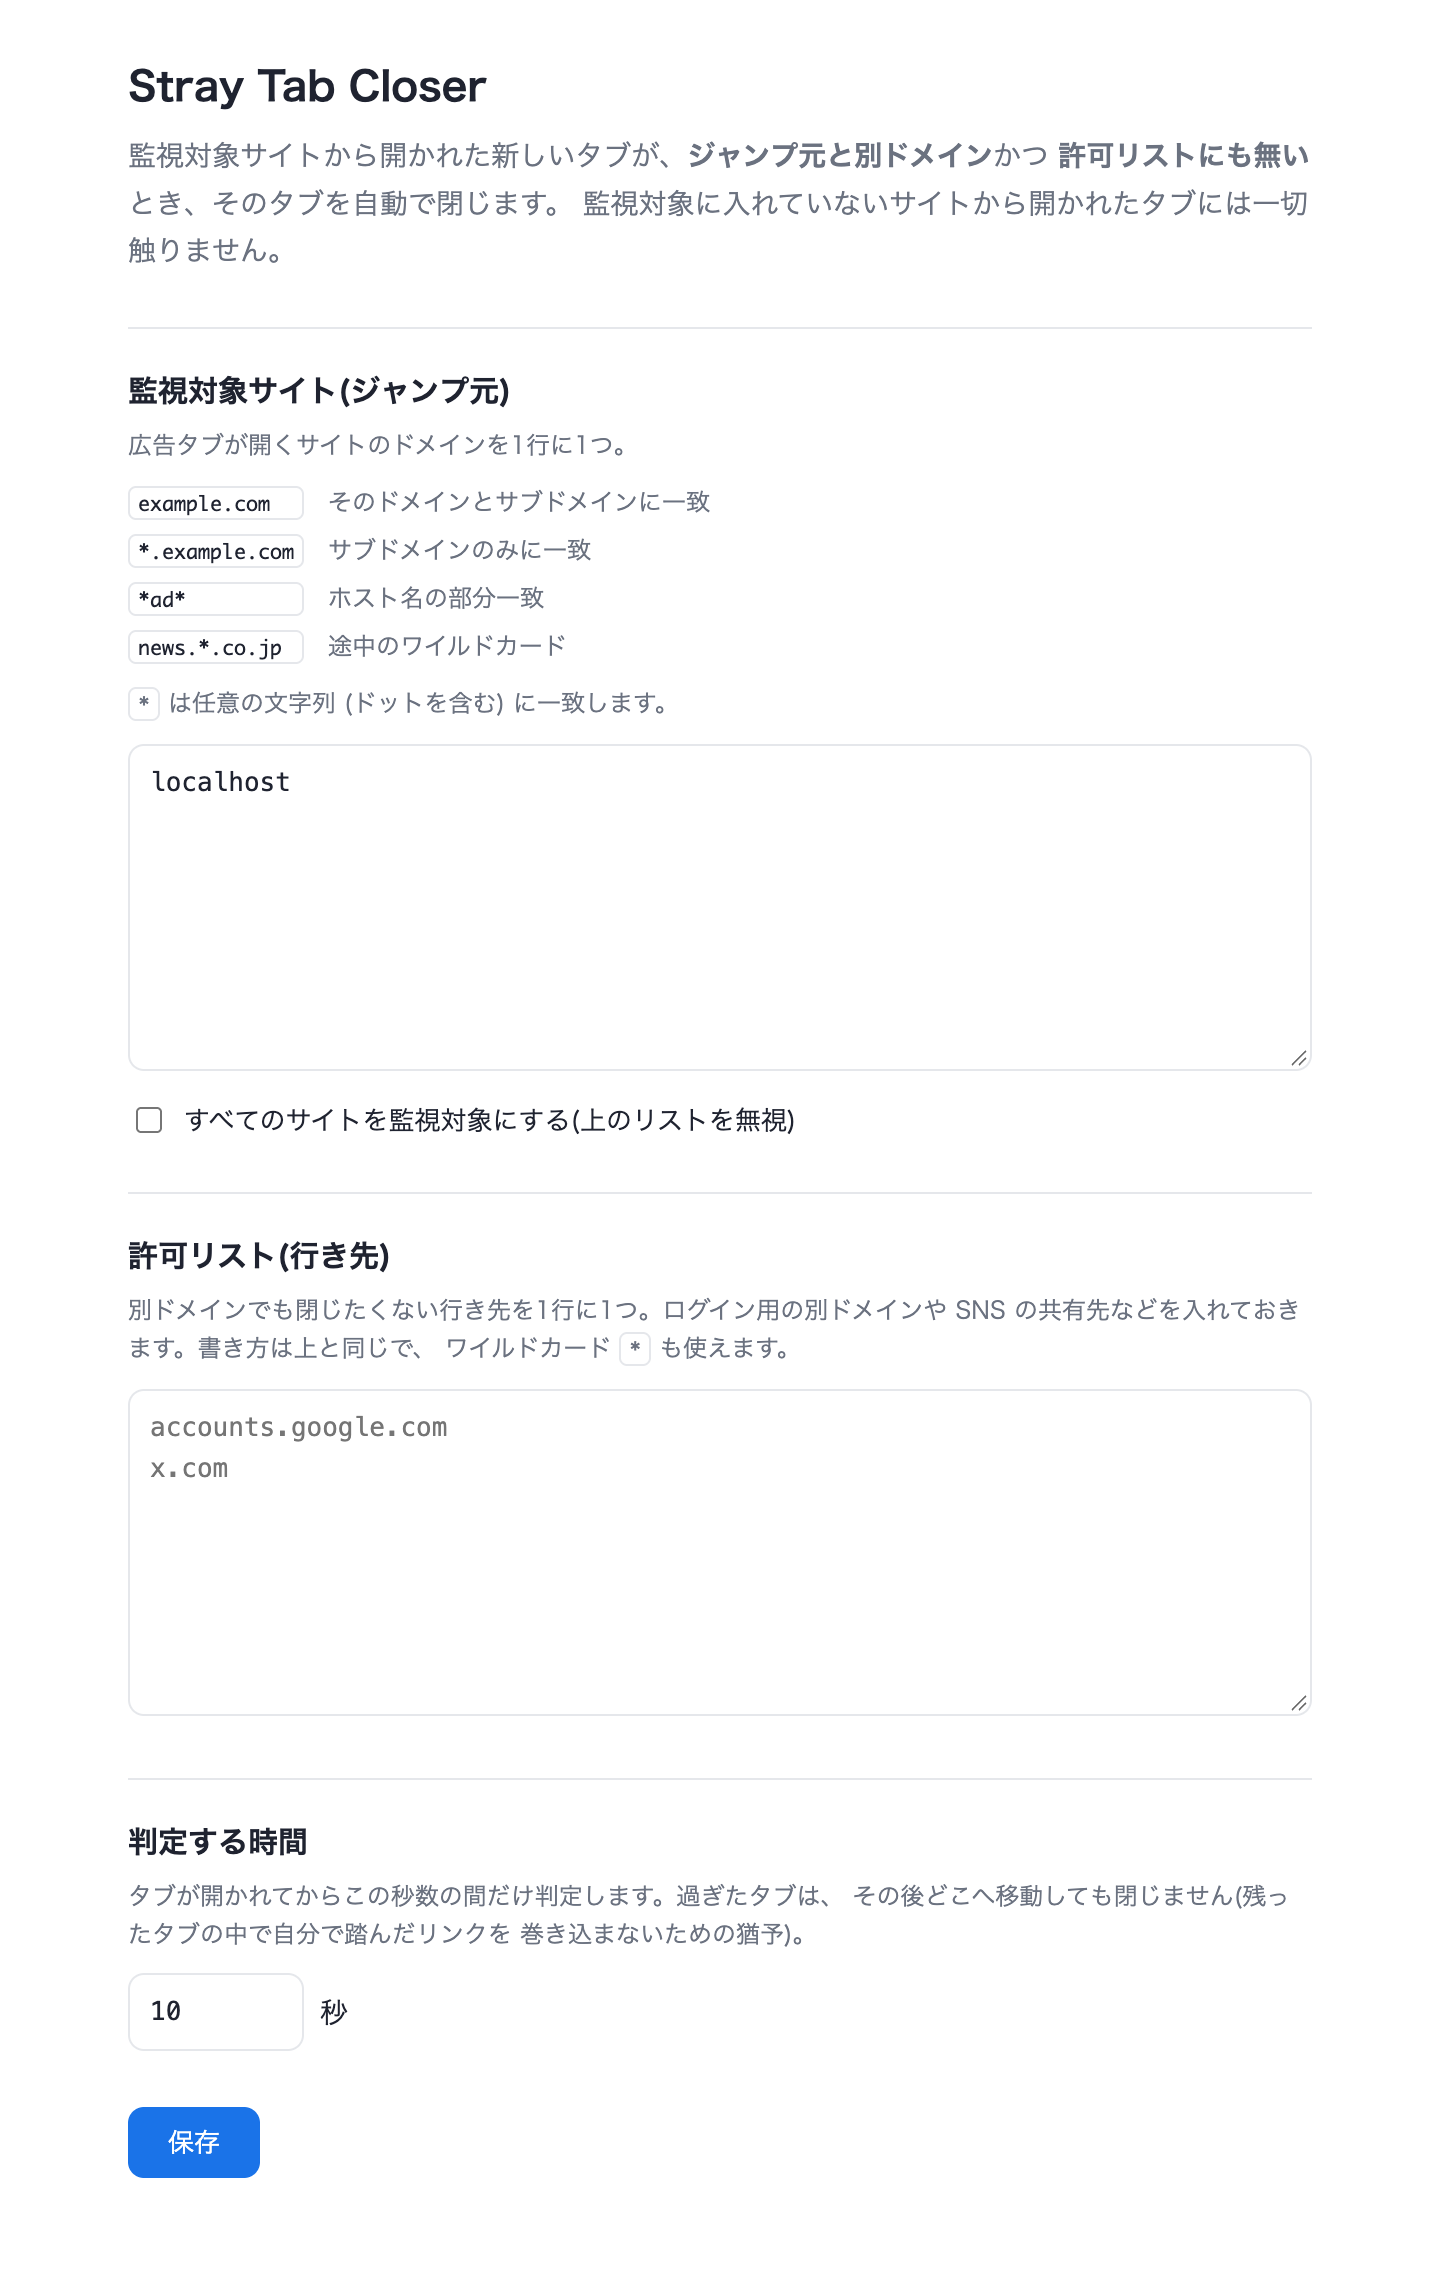
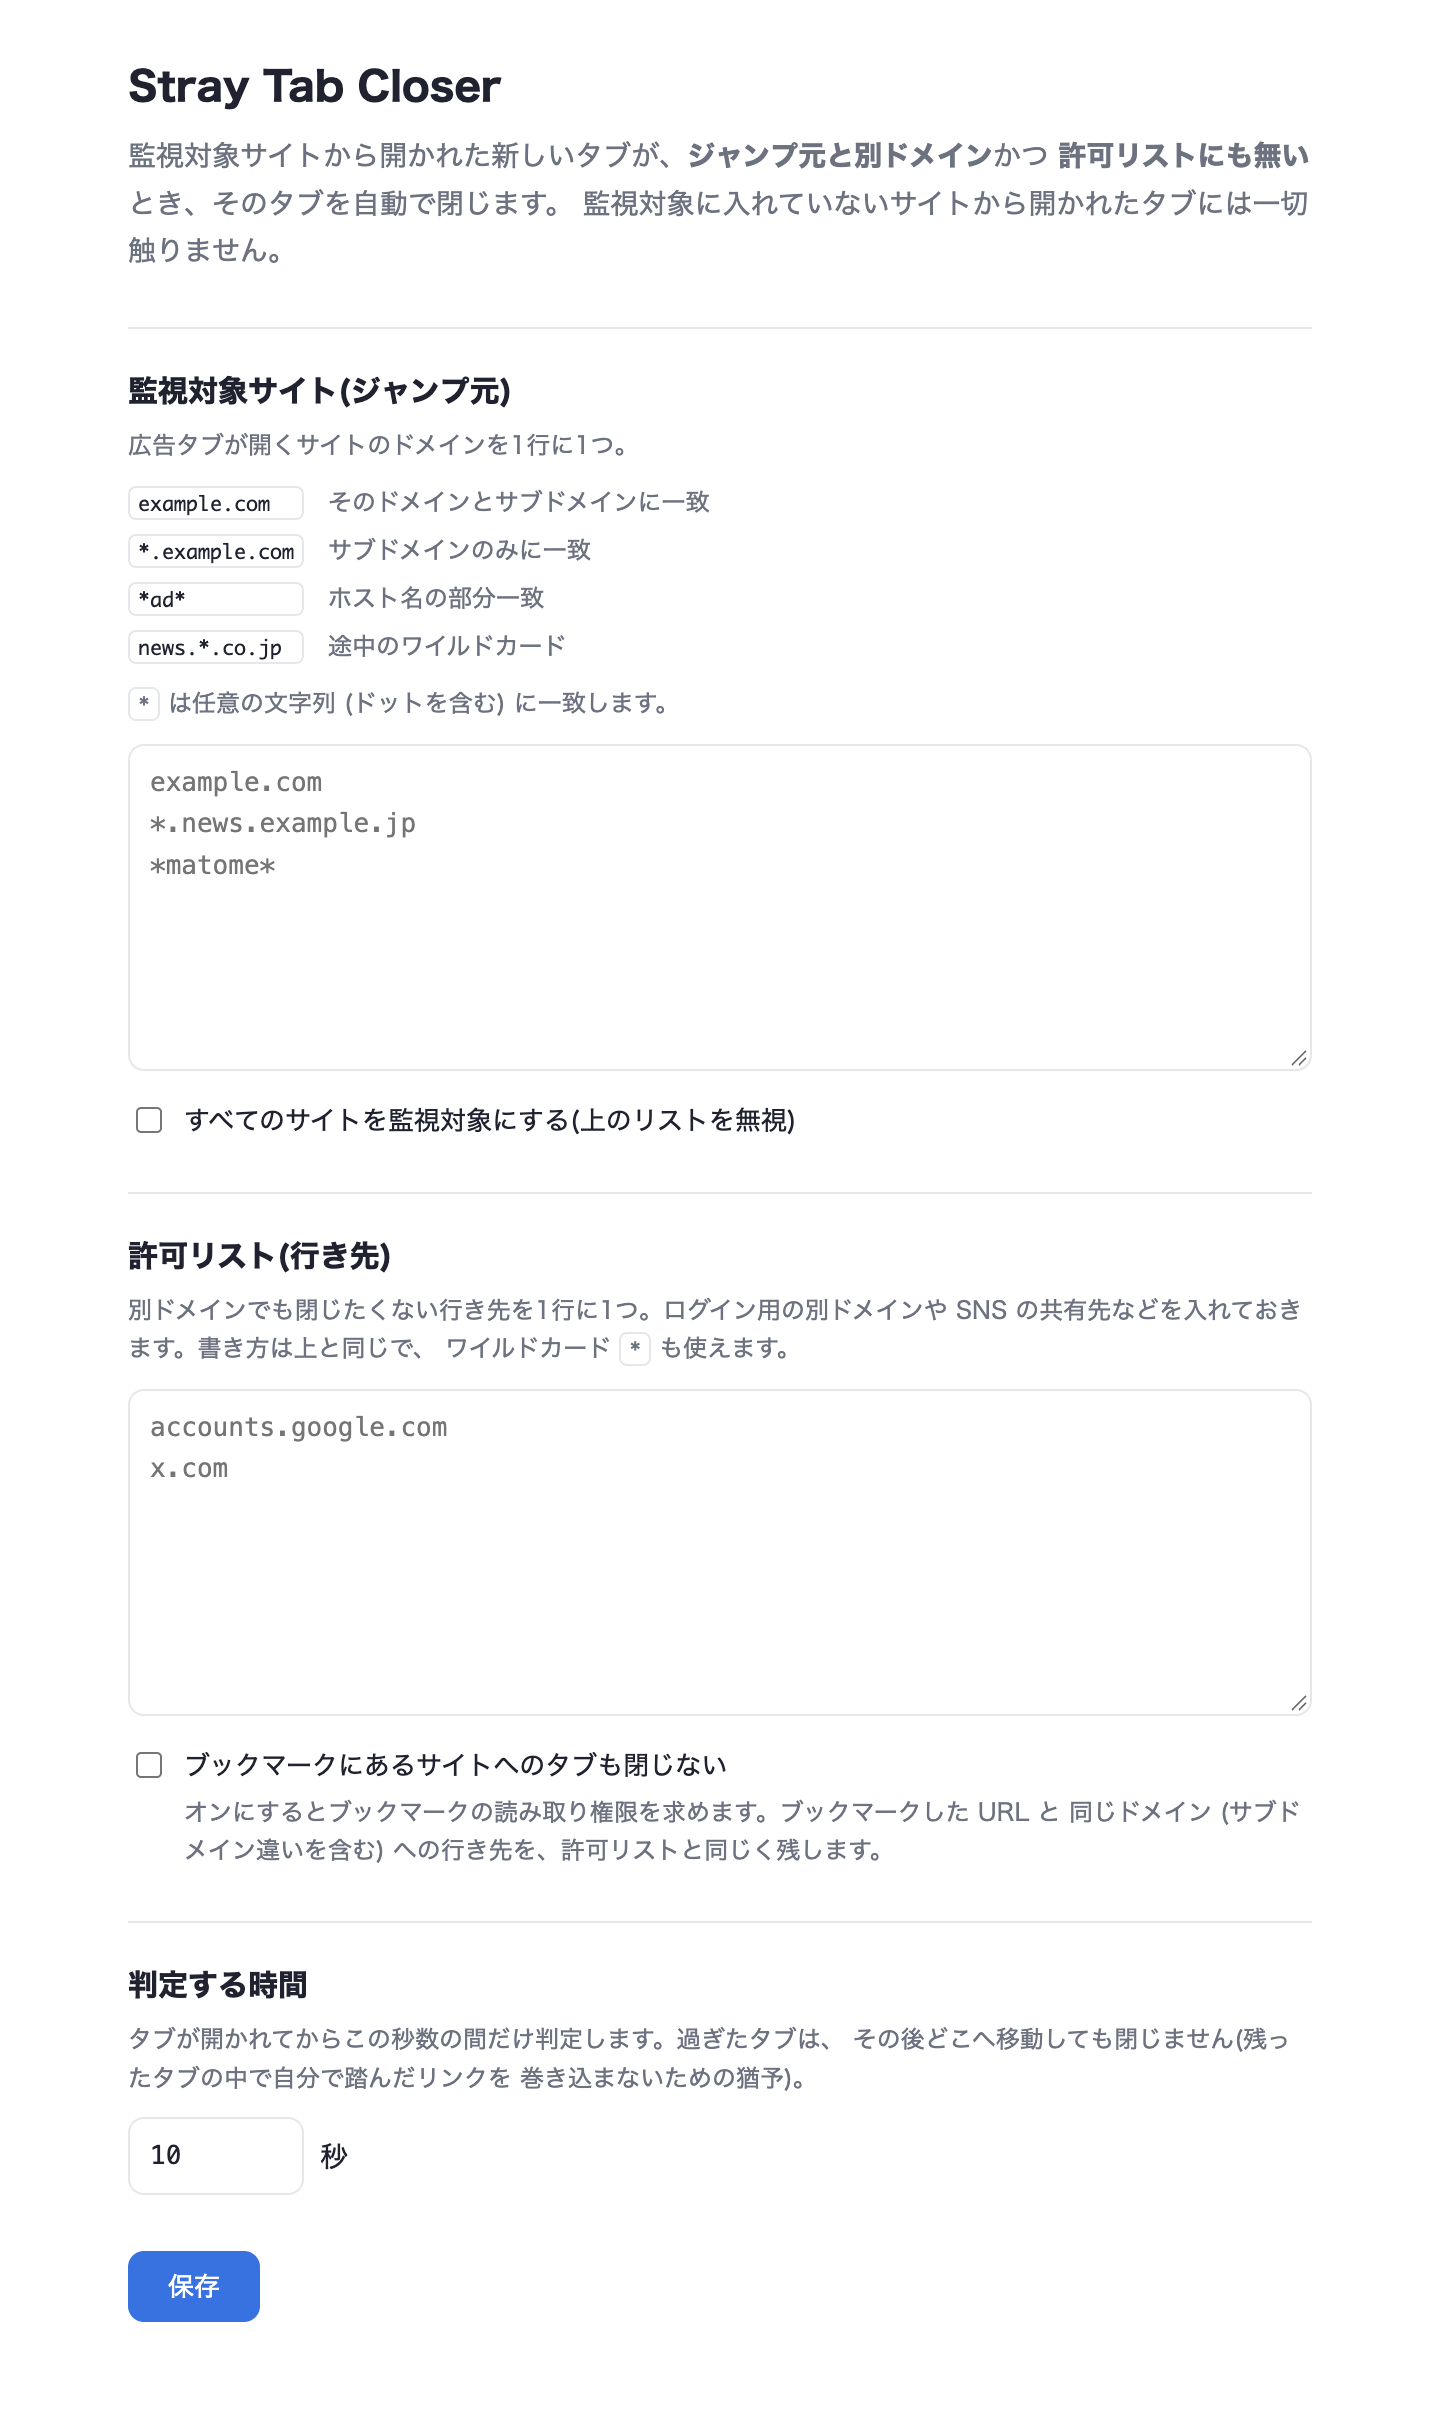
1.1.0: ブックマークにあるサイトへのタブを閉じない設定を追加
詳細設定でオンにしたときだけ bookmarks 権限 (任意権限) を求め、
ブックマークした URL と同じドメインへの行き先を残す。

diff --git a/background.js b/background.js
@@ -1,4 +1,11 @@
-import { getSettings, decide, isWatchedSource, hostOf, registrableDomain } from "./rules.js";
+import {
+  getSettings,
+  decide,
+  isWatchedSource,
+  hostOf,
+  registrableDomain,
+  bookmarkedDomains,
+} from "./rules.js";
 
 const LOG_LIMIT = 20;
 
@@ -68,6 +75,48 @@ async function recordClosed(entry) {
   chrome.action.setBadgeBackgroundColor({ color: "#D93025" });
 }
 
+// ── ブックマーク ─────────────────────────────────────────
+// bookmarks は任意権限。設定がオンでも、権限が無ければ (別の端末から設定だけ
+// 同期されてきた場合など) 使わない。
+// 判定のたびにツリー全体を辿らないよう、登録可能ドメインの Set をメモリに持ち、
+// ブックマークが変わったら捨てる。SW が落ちれば消えるが、作り直すだけでよい。
+let bookmarkCache = null;
+let bookmarkListening = false;
+
+function invalidateBookmarks() {
+  bookmarkCache = null;
+}
+
+function listenBookmarks() {
+  if (bookmarkListening || !chrome.bookmarks) return;
+  bookmarkListening = true;
+  for (const event of ["onCreated", "onRemoved", "onChanged", "onImportEnded"]) {
+    chrome.bookmarks[event].addListener(invalidateBookmarks);
+  }
+}
+
+async function getBookmarked(settings) {
+  if (!settings.allowBookmarked) return null;
+  if (!(await chrome.permissions.contains({ permissions: ["bookmarks"] }))) return null;
+  listenBookmarks();
+  if (bookmarkCache) return bookmarkCache;
+
+  const urls = [];
+  const walk = (nodes) => {
+    for (const node of nodes) {
+      if (node.url) urls.push(node.url);
+      if (node.children) walk(node.children);
+    }
+  };
+  walk(await chrome.bookmarks.getTree());
+  bookmarkCache = bookmarkedDomains(urls);
+  return bookmarkCache;
+}
+
+chrome.permissions.onAdded.addListener(invalidateBookmarks);
+chrome.permissions.onRemoved.addListener(invalidateBookmarks);
+listenBookmarks();
+
 // ── 判定と実行 ───────────────────────────────────────────
 async function evaluate(tabId, url, status) {
   const map = await ensureWatching();
@@ -87,7 +136,8 @@ async function evaluate(tabId, url, status) {
     return;
   }
 
-  const { action, reason } = decide(url, entry.openerUrl, settings);
+  const bookmarked = await getBookmarked(settings);
+  const { action, reason } = decide(url, entry.openerUrl, settings, bookmarked);
 
   if (action === "close") {
     const tab = await chrome.tabs.get(tabId).catch(() => null);

diff --git a/rules.js b/rules.js
@@ -14,6 +14,9 @@ export const DEFAULTS = {
   // タブが開かれてから何ミリ秒までを「開かれた直後」とみなすか。
   // この時間を過ぎたタブは、以後どこへ遷移しても触らない。
   graceMs: 10000,
+  // ブックマークにあるサイトへのタブは閉じない。bookmarks は任意権限なので、
+  // 設定画面でオンにしたとき (= 権限を許可したとき) だけ有効になる。
+  allowBookmarked: false,
 };
 
 export async function getSettings() {
@@ -140,6 +143,19 @@ export function matchesAny(url, patterns) {
   return patterns.some((p) => domainMatches(host, p));
 }
 
+// ブックマークの URL 群を、登録可能ドメインの Set にまとめる。
+// 判定は同一ドメインと同じ粒度 (eTLD+1) にそろえる。www.example.com を
+// ブックマークしていれば shop.example.com へのタブも残す。
+export function bookmarkedDomains(urls) {
+  const set = new Set();
+  for (const url of urls) {
+    if (!isHttpUrl(url)) continue;
+    const domain = registrableDomain(hostOf(url));
+    if (domain) set.add(domain);
+  }
+  return set;
+}
+
 // ── 判定 ─────────────────────────────────────────────────
 
 // 遷移の途中状態。まだ行き先が確定していないので結論を出さない。
@@ -169,7 +185,8 @@ export function isWatchedSource(openerUrl, settings) {
 
 // 開かれた直後のタブをどう扱うか。
 //   "close" 閉じる / "keep" 見逃す (以後このタブは触らない) / "wait" まだ決めない
-export function decide(targetUrl, openerUrl, settings) {
+// bookmarked は bookmarkedDomains() の結果。ブックマークを使わないときは渡さない。
+export function decide(targetUrl, openerUrl, settings, bookmarked = null) {
   if (!targetUrl || BLANK_URL.test(targetUrl)) return { action: "wait" };
 
   // chrome-extension:// や chrome:// のページは閉じにいかない。
@@ -183,6 +200,9 @@ export function decide(targetUrl, openerUrl, settings) {
   }
   if (matchesAny(targetUrl, settings.allowDomains)) {
     return { action: "keep", reason: "allowed" };
+  }
+  if (bookmarked?.has(registrableDomain(hostOf(targetUrl)))) {
+    return { action: "keep", reason: "bookmarked" };
   }
   return { action: "close", reason: "stray" };
 }

diff --git a/options.js b/options.js
@@ -2,6 +2,8 @@ import { DEFAULTS, getSettings, normalizeDomain } from "./rules.js";
 
 const $ = (id) => document.getElementById(id);
 
+const BOOKMARKS = { permissions: ["bookmarks"] };
+
 // テキストエリアの1行1ドメイン。空行・重複・書式ゆれはここで吸収する。
 function parseList(text) {
   const out = [];
@@ -17,6 +19,9 @@ async function load() {
   $("sourceDomains").value = settings.sourceDomains.join("\n");
   $("allowDomains").value = settings.allowDomains.join("\n");
   $("watchAllSources").checked = settings.watchAllSources;
+  // 設定だけ同期されてきて、この端末では権限が無い場合はオフとして見せる。
+  $("allowBookmarked").checked =
+    settings.allowBookmarked && (await chrome.permissions.contains(BOOKMARKS));
   $("graceSec").value = Math.round(settings.graceMs / 1000);
 }
 
@@ -32,6 +37,7 @@ async function save() {
     sourceDomains,
     allowDomains,
     watchAllSources: $("watchAllSources").checked,
+    allowBookmarked: $("allowBookmarked").checked,
     graceMs,
   });
 
@@ -44,6 +50,18 @@ async function save() {
   status.textContent = "保存しました";
   setTimeout(() => (status.textContent = ""), 1800);
 }
+
+// permissions.request はユーザー操作の中でしか呼べないので、保存ボタンではなく
+// チェックした瞬間に求める。断られたらチェックを戻す。
+// オフにしたときは権限も返す (使わない権限を持ち続けない)。
+$("allowBookmarked").addEventListener("change", async (e) => {
+  const box = e.target;
+  if (box.checked) {
+    box.checked = await chrome.permissions.request(BOOKMARKS).catch(() => false);
+  } else {
+    await chrome.permissions.remove(BOOKMARKS).catch(() => {});
+  }
+});
 
 $("save").addEventListener("click", save);
 load();

diff --git a/options.html b/options.html
@@ -41,6 +41,14 @@
         </p>
         <textarea id="allowDomains" rows="7" spellcheck="false"
           placeholder="accounts.google.com&#10;x.com"></textarea>
+        <label class="check">
+          <input type="checkbox" id="allowBookmarked" />
+          <span>ブックマークにあるサイトへのタブも閉じない</span>
+        </label>
+        <p class="hint">
+          オンにするとブックマークの読み取り権限を求めます。ブックマークした URL と
+          同じドメイン (サブドメイン違いを含む) への行き先を、許可リストと同じく残します。
+        </p>
       </section>
 
       <section>

diff --git a/options.css b/options.css
@@ -78,6 +78,11 @@ input[type="number"]:focus {
   font-size: 13px;
 }
 
+/* チェックボックスの説明。ラベルの文字の位置にそろえる */
+.check + .hint {
+  margin: 4px 0 0 28px;
+}
+
 .inline {
   display: flex;
   align-items: center;

diff --git a/.claude/skills/stray-tab-closer/SKILL.md b/.claude/skills/stray-tab-closer/SKILL.md
@@ -136,10 +136,25 @@ permission 不要なので、この機能で権限は増えていない。
 スキーム無しで打たれた文字列は普通のホスト名と区別できないので通すが、
 `http(s)` のホストとしか照合されないので実害は無い。
 
+### ブックマークの除外は任意権限にした
+
+「ブックマークにあるサイトは閉じない」(`allowBookmarked`) は `bookmarks` 権限が要る。
+必須にするとインストール時に「ブックマークの読み取りと変更」の警告が出て、
+`["tabs", "storage"]` に抑えてきた方針が崩れるので **`optional_permissions`** にし、
+詳細設定でチェックした瞬間に `permissions.request()` する (ユーザー操作の中でしか
+呼べないので保存ボタンではない)。オフにしたら `permissions.remove()` で返す。
+
+- 判定の粒度は同一ドメイン判定と同じ eTLD+1。`www.shop.com` をブックマークしていれば
+  `sale.shop.com` へのタブも残る。`decide()` の第4引数に `bookmarkedDomains()` の Set を渡す
+- background はドメインの Set をメモリにキャッシュし、`bookmarks.on*` と
+  `permissions.on*` で捨てる。SW が落ちたら作り直すだけ
+- 設定は sync で他端末に行くが権限は行かない。だから**設定値と権限の両方**を見る
+  (`getBookmarked()` / 詳細設定の表示)
+
 ## 設定
 
 `rules.js` の `DEFAULTS` が唯一の定義。`sourceDomains` / `watchAllSources` /
-`allowDomains` / `graceMs` / `enabled`。
+`allowDomains` / `allowBookmarked` / `graceMs` / `enabled`。
 
 ドメイン設定は `normalizeDomain()` で URL でもホスト名でも受ける (貼り付けた URL が
 そのまま通る)。マッチは `domainMatches()` = 完全一致 + サブドメイン。
@@ -210,6 +225,15 @@ node --test test/rules.test.mjs
 - ポップアップを**タブとして開いて撮影**するときは、`chrome.tabs.query({active:true})`
   が自分自身を指してしまう。対象サイトのタブを `bringToFront()` してから
   ポップアップのタブを `reload()` すると、実際の見え方で撮れる
+
+- **任意権限の許可ダイアログは自動で押せない。** ブックマーク関連の実機テストは、
+  拡張をスクラッチパッドへコピーして manifest の `permissions` に `bookmarks` を足した版で行い、
+  `sw.evaluate(() => chrome.bookmarks.create(...))` でブックマークを作る。本物の manifest では
+  「権限が無ければ設定オンでも閉じる」ことを確かめる
+
+ブックマーク除外 (1.1.0) で追加確認したケース (実機8件 / 単体17件):
+ブックマーク済みドメインは残す / 設定オフなら閉じる / ブックマーク削除後は閉じる /
+権限が無ければ設定オンでも閉じる / 詳細設定は権限が無ければオフ表示。
 
 1.0.0 時点で確認済みのケース (実機21件 / 単体15件):
 

diff --git a/README.md b/README.md
@@ -16,6 +16,7 @@
 | ジャンプ元が監視対象サイトでない | 触らない |
 | 行き先がジャンプ元と同一ドメイン | 残す |
 | 行き先が許可リストに一致 | 残す |
+| 行き先がブックマークにあるサイトと同一ドメイン (設定でオンにした場合) | 残す |
 | 行き先が `http(s)` でない (`chrome-extension:` / 新しいタブ / `file:` など) | 触らない |
 | 上記以外 | **閉じる** |
 
@@ -52,6 +53,9 @@
 - **監視対象サイト(ジャンプ元)** — 1行に1つ。書き方は下記
 - **すべてのサイトを監視対象にする** — 上のリストを無視して全サイトを対象にする
 - **許可リスト(行き先)** — 別ドメインでも閉じたくない行き先。書き方は監視対象と同じ
+- **ブックマークにあるサイトへのタブも閉じない** — ブックマークした URL と同じドメイン
+  (サブドメイン違いを含む) への行き先を残す。オンにしたときだけブックマークの読み取り権限を
+  求め、オフにすると権限も返します (既定はオフ)
 - **判定する時間** — タブが開かれてから何秒まで判定するか (1〜60秒)
 
 ### ドメインの書き方

diff --git a/CHANGELOG.md b/CHANGELOG.md
@@ -5,6 +5,14 @@
 
 ## [Unreleased]
 
+## [1.1.0] - 2026-11-01
+
+### Added
+
+- ブックマークにあるサイトへのタブを閉じない設定 (既定はオフ)。ブックマークした URL と
+  同じドメインへの行き先を許可リストと同様に残す。ブックマークの読み取り権限は
+  この設定をオンにしたときだけ求める
+
 ## [1.0.0] - 2026-09-08
 
 ### Added
